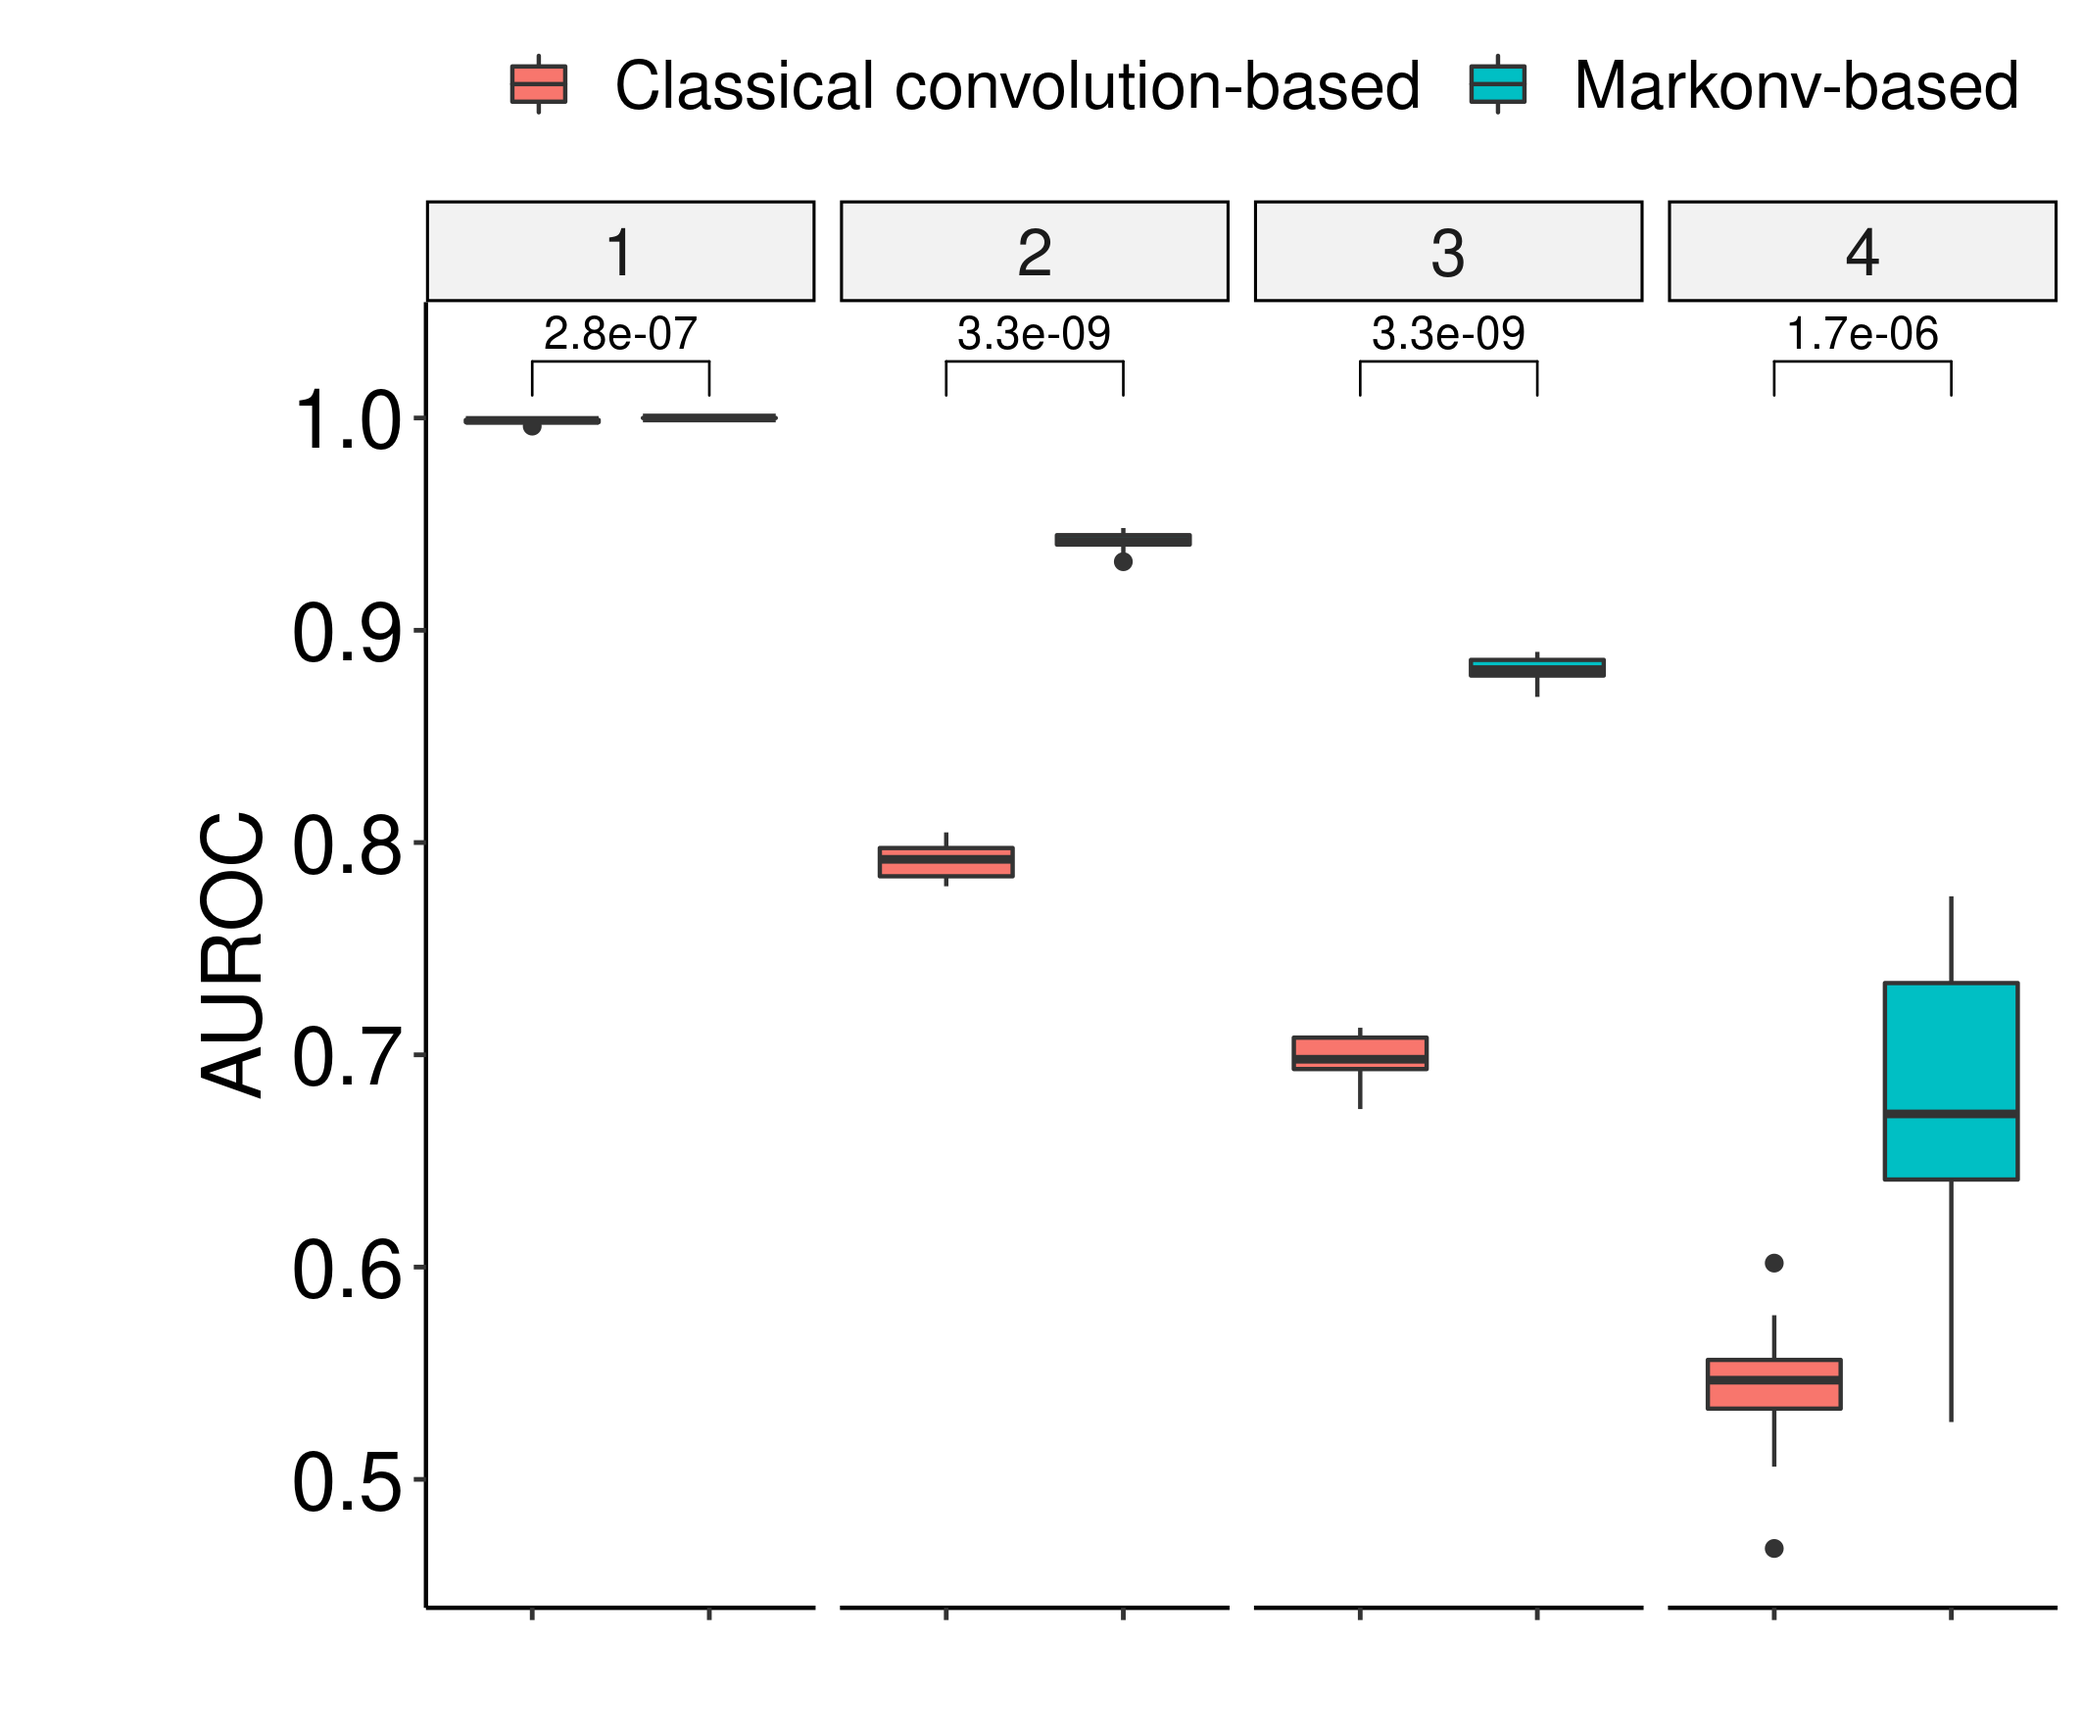
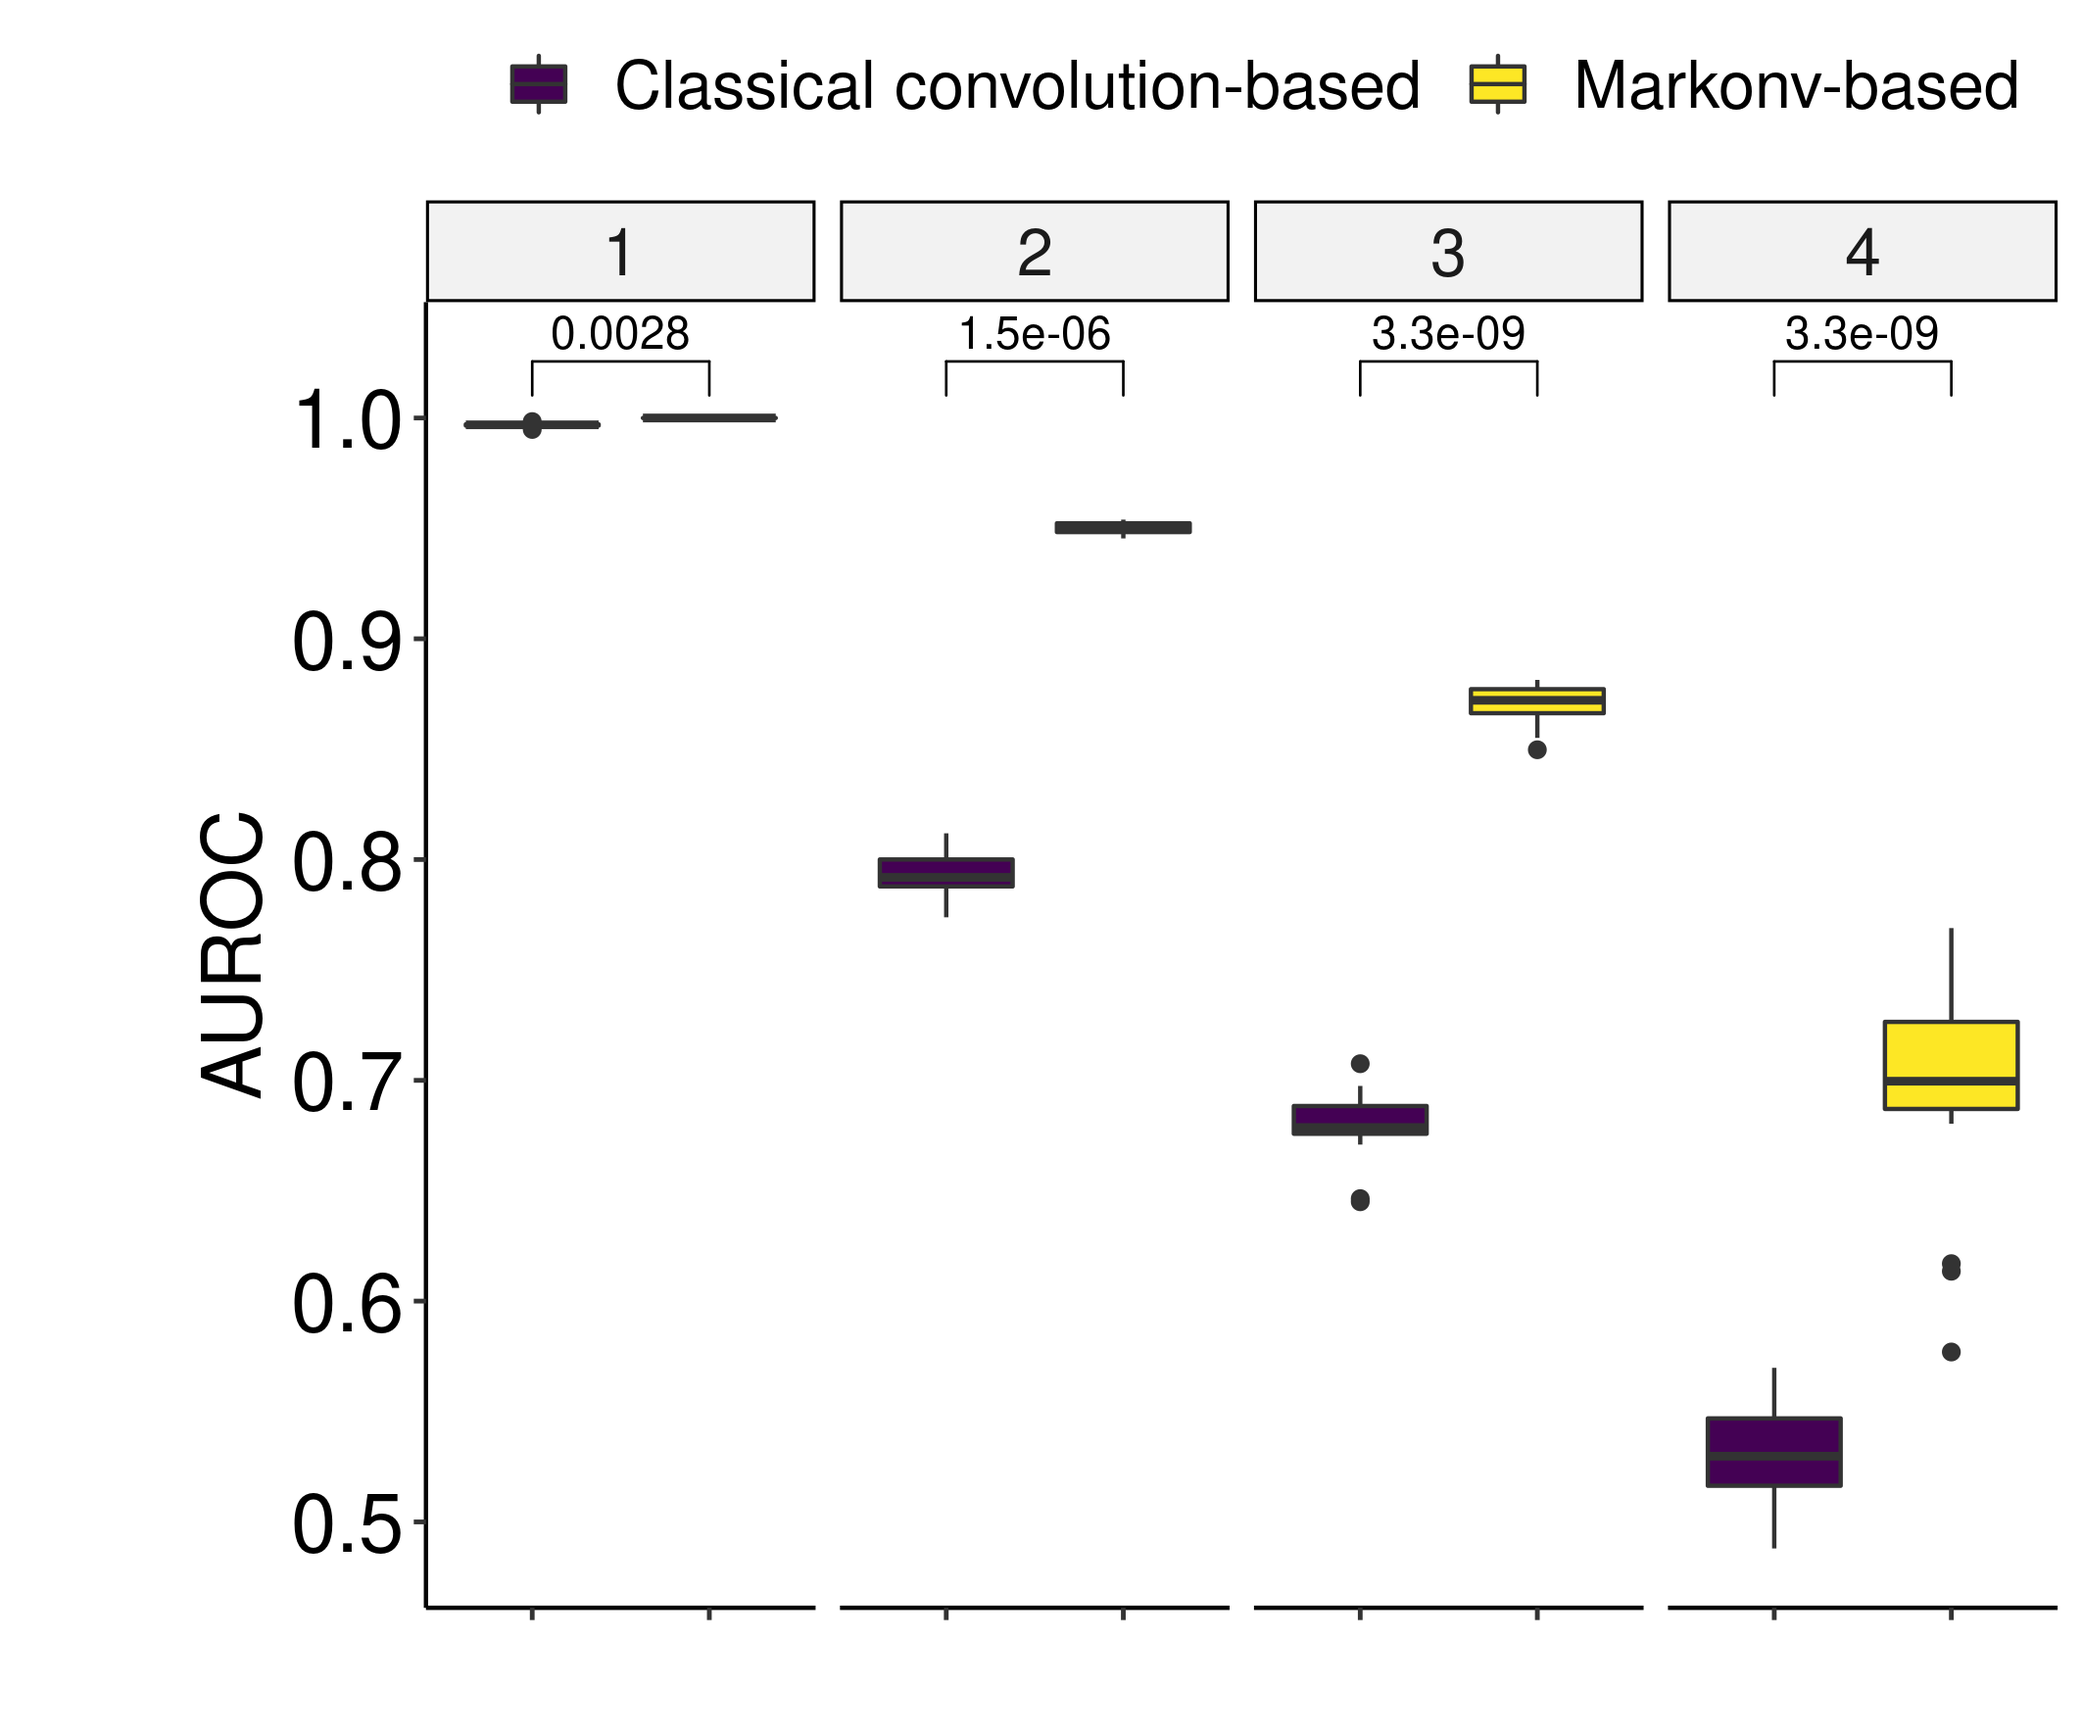
change figure color

diff --git a/scripts/bonito/Compare_param.py b/scripts/bonito/Compare_param.py
@@ -30,7 +30,7 @@ def main():
 
     namelist = ["Markonv-basde bonito"]*len(result["read_markonv"])+["Bonito"]*len(result["read_markonv"])
     Readacc = list(result["read_markonv"])+list(result["read_conv"])
-    sizelist = [9.115728]*len(result["read_markonv"])+[27.008104]*len(result["read_markonv"])
+    sizelist = [(9.115728/3)**2]*len(result["read_markonv"])+[(27.008104/3)**2]*len(result["read_markonv"])
     consensusacc =list(result["assembly_markonv"])+list(result["assembly_conv"])
     colorlist = ["read"]*len(result["read_markonv"])+["Bonito"]*len(result["read_markonv"])
     # fig = plt.figure(figsize=(8, 14))
@@ -41,6 +41,9 @@ def main():
     # ax.set_xlabel("consensus accuracy")
     # ax.set_ylabel("read accuracy")
     # ax.set(title='model ')
+    fig.update_layout({"paper_bgcolor":"rgba(0,0,0,0)","plot_bgcolor":"rgba(0,0,0,0)"})
+    fig.update_xaxes(showline=True, linewidth=2, linecolor='black')
+    fig.update_yaxes(showline=True, linewidth=2, linecolor='black')
     fig.show()
 
 
